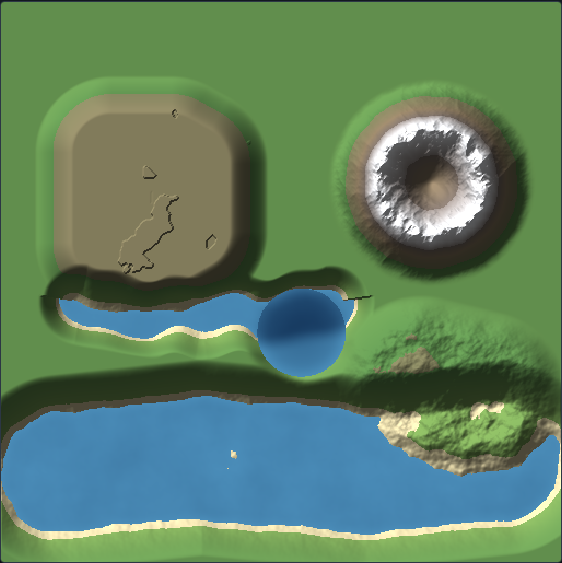
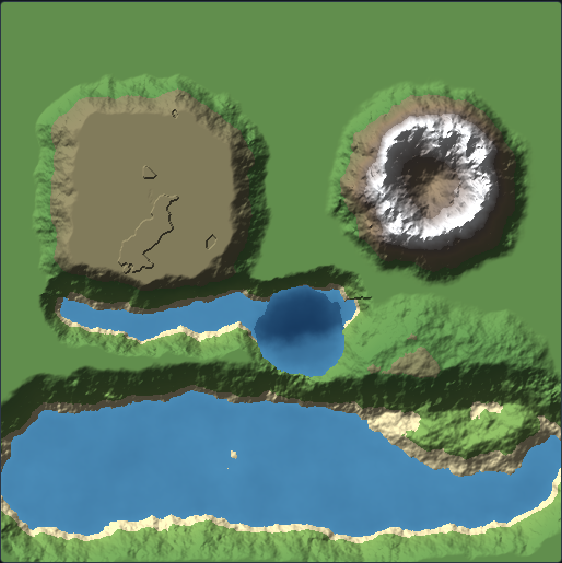
fractal-geology: fractal edge-warp on feature masks (fix rounded edges)
Feature footprints were a smooth feathered circle, so every edge read as a
rounded brush blob. Domain-warp the coordinates used for the coverage mask
with the stamp's fractal noise before computing coverage, so boundaries are
ragged/organic (irregular mesa rims, wobbly crater and lake shores, broken
hill margins). The feature's interior detail still samples the true px,py —
only the boundary is perturbed.

- New global "Edge noise" slider (0 = smooth as before, default 0.55).
- Warp amplitude scales with feature radius; frequency tied to radius so a
  handful of lobes fall across the diameter regardless of brush size.
- stampBBox margin expanded by the warp reach so warped-inward pixels aren't
  clipped; far corners still untouched (mask locality preserved).
- Headless suite 75/0, browser check 16/0 (0 console errors); showcase.png
  refreshed to show the organic edges.

Claude-Session: https://claude.ai/code/session_018cFsBow5y1tVdEW6N4H3ik

diff --git a/fractal-geology/Fractal Geology Painter v0.1.html b/fractal-geology/Fractal Geology Painter v0.1.html
@@ -138,6 +138,7 @@
       <div class="row"><label>Octaves</label><input type="range" id="g_octaves" min="1" max="8" step="1"><span class="val" id="g_octaves_v"></span></div>
       <div class="row"><label>Persistence</label><input type="range" id="g_persistence" min="0.2" max="0.9" step="0.01"><span class="val" id="g_persistence_v"></span></div>
       <div class="row"><label>Lacunarity</label><input type="range" id="g_lacunarity" min="1.4" max="3.2" step="0.05"><span class="val" id="g_lacunarity_v"></span></div>
+      <div class="row"><label>Edge noise</label><input type="range" id="g_edgeNoise" min="0" max="1" step="0.01"><span class="val" id="g_edgeNoise_v"></span></div>
       <div class="seedrow" style="margin-top:8px">
         <input type="number" id="seedInput" step="1">
         <button class="btn" id="randSeed" title="Randomize seed">🎲</button>
@@ -466,9 +467,10 @@ const App = (() => {
   };
   const FEATURE_KEYS = Object.keys(FEATURES);
   const GLOBAL_KEYS = ['brushSize','hardness','intensity','noiseScale','octaves',
-                       'persistence','lacunarity','seaLevel','baseLevel'];
+                       'persistence','lacunarity','edgeNoise','seaLevel','baseLevel'];
   const GLOBAL_DEF = { brushSize:60, hardness:0.5, intensity:1.0, noiseScale:5,
-                       octaves:5, persistence:0.5, lacunarity:2.0, seaLevel:0.30, baseLevel:0.45 };
+                       octaves:5, persistence:0.5, lacunarity:2.0, edgeNoise:0.55,
+                       seaLevel:0.30, baseLevel:0.45 };
   // salt per feature so identical seeds still differ between feature types
   const SALT = {}; FEATURE_KEYS.forEach((k,i)=> SALT[k]=(i+1)*1013);
 
@@ -492,7 +494,8 @@ const App = (() => {
     const rad = stampRadius(st);
     const feat = FEATURES[st.type];
     const feather = Math.max(2, rad*(1-st.g.hardness));
-    const m = rad + feather + 3;
+    const edgeAmp = (st.g.edgeNoise||0) * rad * 0.34;   // fractal edge warp reach
+    const m = rad + feather + edgeAmp + 3;
     let x0,y0,x1,y1;
     if(feat.radial){
       let cx=0,cy=0; for(const p of st.pts){ cx+=p.x; cy+=p.y; } cx/=st.pts.length; cy/=st.pts.length;
@@ -515,17 +518,30 @@ const App = (() => {
     const bb = stampBBox(st);
     const feather = feat.radial ? Math.max(2, rad*(1-P.hardness)) : Math.max(1.5, R*(1-P.hardness));
     const cx = st._cx, cy = st._cy;
-    ctx.nz = makeNoise((st.seed ^ SALT[st.type])>>>0);
+    const nz = makeNoise((st.seed ^ SALT[st.type])>>>0);
+    ctx.nz = nz;
     ctx.P = P; ctx.nb = P.noiseScale/SIZE; ctx.R = R; ctx.radius = rad; ctx.cx=cx; ctx.cy=cy;
+    // Fractal edge warp: perturb the coordinates used for the coverage mask so
+    // the feature footprint is ragged/organic, not a smooth rounded brush blob.
+    // Feature *interior* noise still samples the true px,py (ctx.px/py below).
+    const edgeAmp = P.edgeNoise * rad * 0.34;
+    const warp = edgeAmp > 0.01;
+    const wf = 2.3 / Math.max(8, rad);                  // ~4-5 lobes across the diameter + octaves
     const pts = st.pts;
     for(let py=bb.y0; py<=bb.y1; py++){
       for(let px=bb.x0; px<=bb.x1; px++){
+        let qx=px, qy=py;
+        if(warp){
+          const wx = nz.fbm(px*wf, py*wf, P.octaves, P.persistence, P.lacunarity);
+          const wy = nz.fbm((px+211.3)*wf, (py+57.7)*wf, P.octaves, P.persistence, P.lacunarity);
+          qx = px + wx*edgeAmp; qy = py + wy*edgeAmp;
+        }
         let cov, d=0, sd=0, s=0, rC=0;
         if(feat.radial){
-          rC = Math.hypot(px-cx, py-cy);
+          rC = Math.hypot(qx-cx, qy-cy);
           cov = ss((rad - rC)/feather);
         } else {
-          const g = nearestOnStroke(px,py,pts);
+          const g = nearestOnStroke(qx,qy,pts);
           d=g.dist; sd=g.sd; s=g.s;
           cov = ss((R - d)/feather);
         }

diff --git a/fractal-geology/README.md b/fractal-geology/README.md
@@ -98,6 +98,12 @@ Painting sweeps the brush along the stroke; a pixel's **coverage** feathers with
 `add` (displacement) or `set` (target), always weighted by coverage × intensity — so edges ramp to
 the surrounding terrain and **no feature produces a cliff unless the Cliff tool is used**.
 
+The mask footprint itself is **domain-warped by fractal noise** (the `Edge noise` slider) before
+coverage is computed, so feature boundaries are ragged and organic — irregular mesa rims, wobbly
+crater/lake shorelines, broken hill margins — rather than a smooth rounded brush blob. The
+feature's *interior* fractal detail still samples the true coordinates, so only the boundary is
+perturbed. Set `Edge noise` to 0 for perfectly smooth feathered edges.
+
 ### Performance / dirty rectangles
 
 Generation only touches each stamp's bounding box, never the whole map. While you drag, only the